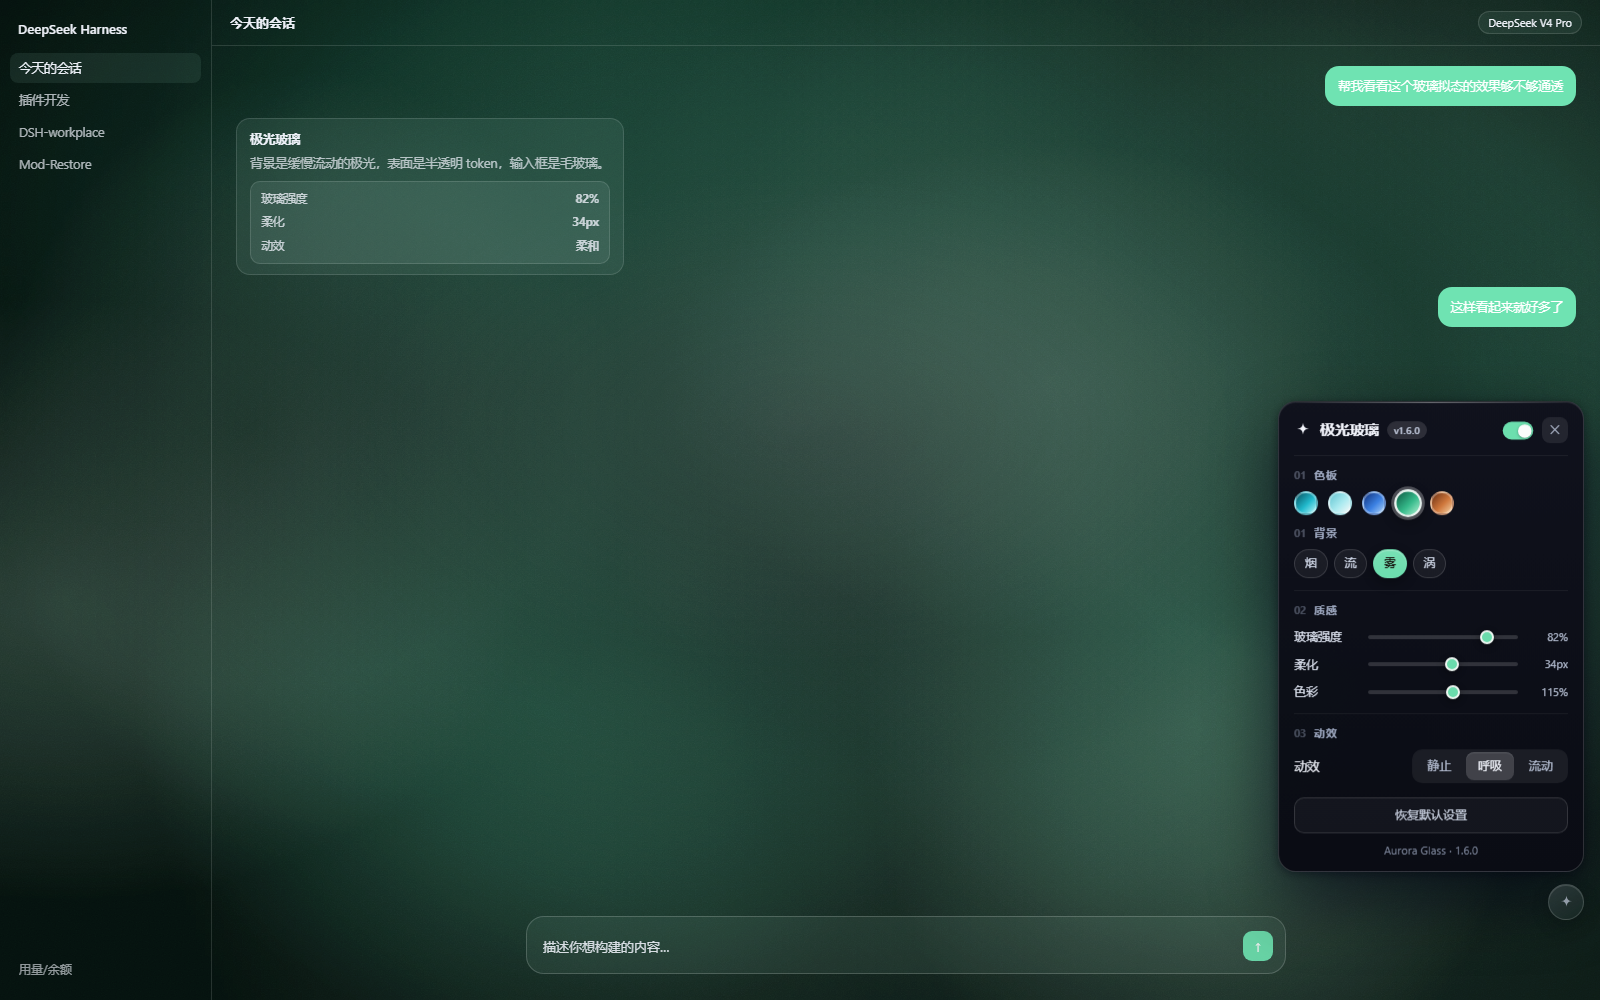
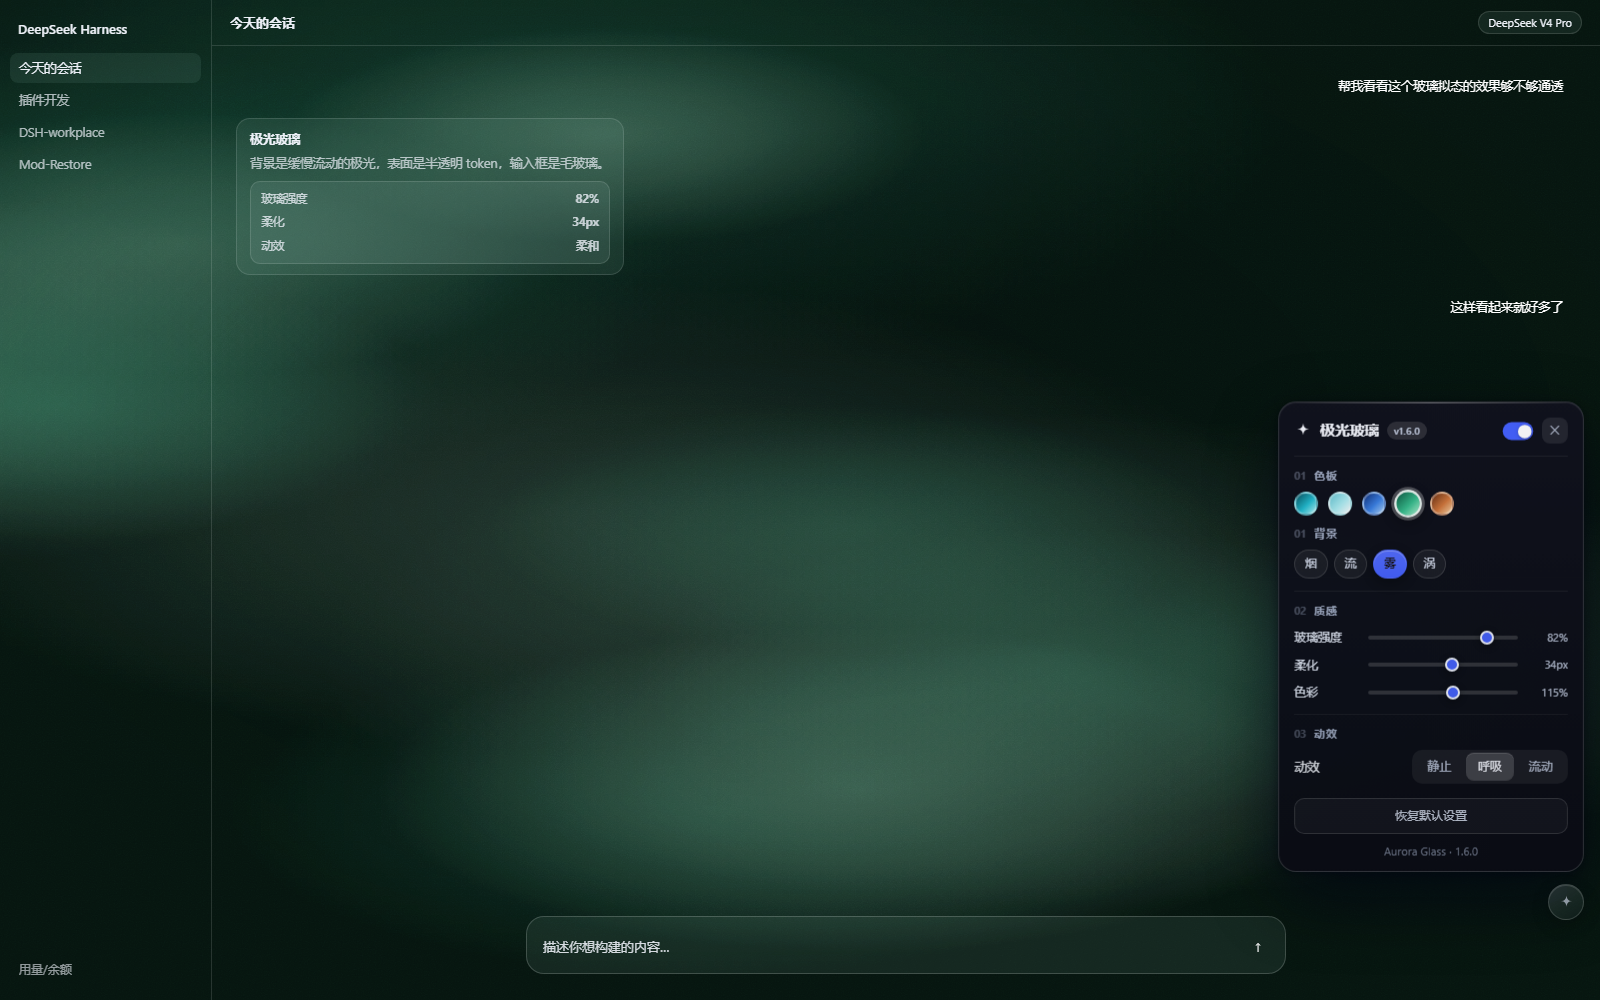
fix: v3.2.0 - coalesce slider paints, lift the scrim, four distinct fluid motions, no hover preview

diff --git a/client.js b/client.js
@@ -382,17 +382,15 @@ body{
 #${BG_ID} .ag-scrim{
   position:absolute; inset:0; display:block; pointer-events:none;
   background:
-    radial-gradient(40% 34% at var(--ag-px,50%) var(--ag-py,42%), rgb(255 255 255 / calc(.05 + .09 * var(--ag-g))), transparent 72%),
-    radial-gradient(64% 58% at 52% 44%, rgb(248 250 255 / calc(.2 + .12 * var(--ag-g))), rgb(248 250 255 / 0) 80%),
-    rgb(248 250 255 / calc(.05 + .05 * var(--ag-g)));
+    radial-gradient(64% 58% at 52% 44%, rgb(248 250 255 / calc(.06 + .06 * var(--ag-g))), rgb(248 250 255 / 0) 82%),
+    rgb(248 250 255 / calc(.02 + .03 * var(--ag-g)));
   transition:opacity .6s ease;
 }
 body:not([data-ds-dark-theme]) #${BG_ID} i{ opacity:calc(.9 + .1 * var(--ag-g)) }
 body[data-ds-dark-theme] #${BG_ID} .ag-scrim{
   background:
-    radial-gradient(40% 34% at var(--ag-px,50%) var(--ag-py,42%), rgb(255 255 255 / calc(.03 + .06 * var(--ag-g))), transparent 72%),
-    radial-gradient(64% 58% at 52% 44%, rgb(4 6 12 / calc(.34 + .12 * var(--ag-g))), rgb(4 6 12 / 0) 82%),
-    rgb(4 6 12 / calc(.2 + .08 * var(--ag-g)));
+    radial-gradient(70% 62% at 50% 44%, rgb(4 6 12 / calc(.12 + .08 * var(--ag-g))), rgb(4 6 12 / 0) 84%),
+    rgb(4 6 12 / calc(.06 + .04 * var(--ag-g)));
 }
 html.ag-typing #${BG_ID} .ag-scrim{ opacity:.55 }
 #${BG_ID} .ag-grain{
@@ -454,7 +452,6 @@ body{
   /* editorial ink: warm near-black instead of the platform's blue-grey */
   --ag-ink-l: ${pal.base[0].map((v) => Math.round(v * 0.12)).join(' ')};
   --ag-ink-d: ${pal.base[1].map((v) => Math.round(v + (255 - v) * 0.92)).join(' ')};
-  --dsw-alias-brand-primary: ${pal.brand.light} !important;
   --dsw-alias-label-primary: rgb(var(--ag-ink-l)) !important;
   --dsw-alias-label-secondary: rgb(var(--ag-ink-l) / .72) !important;
   --dsw-alias-label-tertiary: rgb(var(--ag-ink-l) / .5) !important;
@@ -473,12 +470,10 @@ body{
   --dsw-alias-border-l3: rgb(15 23 42 / .17) !important;
   --dsw-alias-border-l4: rgb(15 23 42 / .21) !important;
   --dsw-specific-sidebar-fill: rgb(var(--ag-base-l) / calc(.02 + .05 * var(--ag-g))) !important;
-  --dsw-alias-brand-primary: ${pal.brand.light} !important;
 }
 
 /* ---- alias tokens, dark -------------------------------------------- */
 body[data-ds-dark-theme]{
-  --dsw-alias-brand-primary: ${pal.brand.dark} !important;
   --dsw-alias-label-primary: rgb(var(--ag-ink-d)) !important;
   --dsw-alias-label-secondary: rgb(var(--ag-ink-d) / .7) !important;
   --dsw-alias-label-tertiary: rgb(var(--ag-ink-d) / .46) !important;
@@ -497,7 +492,6 @@ body[data-ds-dark-theme]{
   --dsw-alias-border-l3: rgb(255 255 255 / calc(.16 + .06 * var(--ag-g))) !important;
   --dsw-alias-border-l4: rgb(255 255 255 / calc(.2 + .07 * var(--ag-g))) !important;
   --dsw-specific-sidebar-fill: rgb(var(--ag-base-d) / calc(.02 + .05 * var(--ag-g))) !important;
-  --dsw-alias-brand-primary: ${pal.brand.dark} !important;
 }
 
 /* ---- dialogs: opaque, so settings never floats on the aurora -------- *
@@ -980,6 +974,7 @@ body:not([data-ds-dark-theme]) .ag-swatch.on{ border-color:rgba(60,48,36,.7); bo
     }
 
     let panelScroll = 0;
+    let sliderQueued = 0;
 
     /* ---------------------------- hover copy ---------------------------- */
 
@@ -1071,8 +1066,6 @@ body:not([data-ds-dark-theme]) .ag-swatch.on{ border-color:rgba(60,48,36,.7); bo
           'data-palette': p.id,
           'data-tip': tip('palette'),
           style: 'background:linear-gradient(135deg,' + solidOf(p.rgb[0]) + ',' + solidOf(p.rgb[1]) + ' 55%,' + solidOf(p.rgb[2]) + ')',
-          onPointerenter: () => previewPalette(p.id),
-          onPointerleave: () => previewPalette(null),
           onClick: () => set({ palette: p.id }),
         }),
       );
@@ -1113,8 +1106,15 @@ body:not([data-ds-dark-theme]) .ag-swatch.on{ border-color:rgba(60,48,36,.7); bo
             state = { ...state, [key]: v };
             const out = refs['val-' + key];
             if (out) out.textContent = fmt(v);
-            // every slider now updates live — the tuning class keeps it cheap
-            paint();
+            // coalesce: a range input can fire dozens of events per frame and
+            // each paint writes a dozen custom properties plus a stylesheet
+            if (!sliderQueued) {
+              sliderQueued = 1;
+              requestAnimationFrame(() => {
+                sliderQueued = 0;
+                paint();
+              });
+            }
           },
           onChange: (e) => {
             state = { ...state, [key]: Number(e.target.value) };
@@ -1535,54 +1535,95 @@ body:not([data-ds-dark-theme]) .ag-swatch.on{ border-color:rgba(60,48,36,.7); bo
     const MIST_CELLS = makeCells(18, 515151);
     const SWIRL_CELLS = makeCells(24, 737373);
 
-    function paintCells(ctx, W, H, dark, cells, t, o) {
+    /* ---- four structurally different fluids -------------------------- *
+     * They used to be the same cell field with a different stretch, which is
+     * why they all looked alike. Each one now has its own motion model.
+     * ------------------------------------------------------------------ */
+
+    function cellPalette(dark) {
       const m = moodOf();
-      const bright = m.rgb[2];
-      const mid = m.rgb[1];
-      const deep = m.rgb[0];
-      const ink = dark ? m.base[1] : m.base[0];
-
-      for (let i = 0; i < cells.length; i += 1) {
-        const c = cells[i];
-        let x = (c.x + Math.sin(t * c.sx + c.ph) * c.ax) * W;
-        let y = (c.y + Math.cos(t * c.sy + c.ph * 1.7) * c.ay) * H;
-
-        if (o.spin) {
-          const dx = x - W * 0.5;
-          const dy = y - H * 0.5;
-          const a = o.spin * t * 0.06;
-          x = W * 0.5 + dx * Math.cos(a) - dy * Math.sin(a) * 0.7;
-          y = H * 0.5 + dx * Math.sin(a) * 0.7 + dy * Math.cos(a);
-        }
-        if (o.stretchY) y = H * 0.5 + (y - H * 0.5) * o.stretchY;
-
-        const r = c.r * W * (0.88 + 0.12 * Math.sin(t * 0.7 + c.ph)) * o.scale;
-        const col = c.darkCell ? ink : (c.tone === 2 ? bright : mid);
-        blob(ctx, x, y, r, col, c.a * (dark ? 1 : 0.95), c.sq);
-      }
-
-      // a single hot core keeps the whole thing from looking flat
-      blob(ctx, W * 0.58, H * 0.36, W * 0.22, dark ? bright : deep, dark ? 0.2 : 0.16, 1);
+      return {
+        m,
+        bright: m.rgb[2],
+        mid: m.rgb[1],
+        deep: m.rgb[0],
+        ink: dark ? m.base[1] : m.base[0],
+        dark,
+      };
     }
 
+    // smoke: billows rising, squashed vertically, drifting sideways
     function drawSmoke(ctx, W, H, dark) {
       ground(ctx, W, H, dark);
-      paintCells(ctx, W, H, dark, SMOKE_CELLS, silkT * 0.9, { scale: 1, stretchY: 0, spin: 0 });
+      const p = cellPalette(dark);
+      const t = silkT * 0.8;
+      const list = SMOKE_CELLS;
+      for (let i = 0; i < list.length; i += 1) {
+        const c = list[i];
+        const x = (c.x + Math.sin(t * c.sx + c.ph) * 0.1) * W;
+        const y = (c.y + Math.cos(t * c.sy + c.ph * 1.6) * 0.08) * H;
+        const r = c.r * W * (0.9 + 0.1 * Math.sin(t * 0.6 + c.ph));
+        blob(ctx, x, y, r, c.darkCell ? p.ink : (c.tone === 2 ? p.bright : p.mid), c.a, 1.5);
+      }
+      blob(ctx, W * 0.56, H * 0.34, W * 0.2, p.bright, dark ? 0.24 : 0.14, 1);
     }
 
+    // flow: long vertical streaks travelling upward, wrapping at the top
     function drawFlow(ctx, W, H, dark) {
       ground(ctx, W, H, dark);
-      paintCells(ctx, W, H, dark, FLOW_CELLS, silkT * 1.15, { scale: 1.05, stretchY: 1.9, spin: 0 });
+      const p = cellPalette(dark);
+      const t = silkT * 1.5;
+      const list = FLOW_CELLS;
+      for (let i = 0; i < list.length; i += 1) {
+        const c = list[i];
+        // continuous upward travel: this is what separates it from smoke
+        const y = (((c.y - t * (0.06 + (i % 5) * 0.012)) % 1.3) + 1.3) % 1.3 - 0.15;
+        const x = (c.x + Math.sin(t * 0.4 + c.ph) * 0.04) * W;
+        const r = c.r * W * 0.85;
+        const col = c.darkCell ? p.ink : (c.tone === 2 ? p.bright : p.mid);
+        blob(ctx, x, y * H, r * 0.55, col, c.a * 0.9, 3.4);
+      }
     }
 
+    // mist: wide flat strata sliding sideways at different speeds
     function drawMist(ctx, W, H, dark) {
       ground(ctx, W, H, dark);
-      paintCells(ctx, W, H, dark, MIST_CELLS, silkT * 0.55, { scale: 1.15, stretchY: 0.55, spin: 0 });
+      const p = cellPalette(dark);
+      const t = silkT * 0.45;
+      const list = MIST_CELLS;
+      for (let i = 0; i < list.length; i += 1) {
+        const c = list[i];
+        const lane = Math.floor(i / 3) / Math.max(1, Math.floor(list.length / 3));
+        const x = (((c.x + t * (0.02 + lane * 0.03)) % 1.4) + 1.4) % 1.4 - 0.2;
+        const y = (0.12 + lane * 0.82 + Math.sin(t * 0.3 + c.ph) * 0.015) * H;
+        const r = c.r * W * 1.1;
+        const col = c.darkCell ? p.ink : (c.tone === 2 ? p.bright : p.mid);
+        blob(ctx, x * W, y, r, col, c.a * 0.8, 0.34);
+      }
     }
 
+    // swirl: three spiral arms turning around a dark eye
     function drawSwirl(ctx, W, H, dark) {
       ground(ctx, W, H, dark);
-      paintCells(ctx, W, H, dark, SWIRL_CELLS, silkT * 0.75, { scale: 1, stretchY: 0, spin: 1 });
+      const p = cellPalette(dark);
+      const t = silkT * 0.55;
+      const cx = W * 0.5;
+      const cy = H * 0.5;
+      const arms = 3;
+      const per = 7;
+      for (let a = 0; a < arms; a += 1) {
+        for (let k = 0; k < per; k += 1) {
+          const phase = (a / arms) * Math.PI * 2 + k * 0.42 + t * 0.9;
+          const rad = W * (0.06 + k * 0.075);
+          const x = cx + Math.cos(phase) * rad;
+          const y = cy + Math.sin(phase) * rad * 0.62;
+          const r = W * (0.2 - k * 0.014);
+          const col = k % 3 === 0 ? p.ink : k > 4 ? p.bright : p.mid;
+          blob(ctx, x, y, r, col, (dark ? 0.3 : 0.24) * (1 - k * 0.06), 0.9);
+        }
+      }
+      // the eye
+      blob(ctx, cx, cy, W * 0.13, p.ink, dark ? 0.85 : 0.5, 0.9);
     }
 
     function now0() {

diff --git a/README.md b/README.md
@@ -3,7 +3,7 @@
 > **`dsh-aurora-glass`** — 为 DeepSeek Harness（DSH）打造的全局玻璃拟态 + 极光渐变主题插件。
 > A global glassmorphism + aurora theme plugin for DeepSeek Harness.
 
-![Version](https://img.shields.io/badge/version-3.1.0-8fb0ff) ![License](https://img.shields.io/badge/license-MIT-059669) ![Platform](https://img.shields.io/badge/platform-DeepSeek%20Harness-4763ff) ![Dependencies](https://img.shields.io/badge/dependencies-0-0b7bf1)
+![Version](https://img.shields.io/badge/version-3.2.0-8fb0ff) ![License](https://img.shields.io/badge/license-MIT-059669) ![Platform](https://img.shields.io/badge/platform-DeepSeek%20Harness-4763ff) ![Dependencies](https://img.shields.io/badge/dependencies-0-0b7bf1)
 
 <p align="center">
   <img src="docs/preview-light.png" alt="烟 · 浅青（浅色）" width="780">
@@ -80,17 +80,18 @@
 
 正文颜色也跟着色板走（覆盖 `--dsw-alias-label-*`），强调色跟随每一套的品牌色。
 
-### 背景：四种流体，真的会动
+### 背景：四种流体，各有各的运动模型
 
-每一团都是一个软渐变，沿各自的 Lissajous 路径漂移——但**三分之一是暗的**。
-暗团在亮团之间挖出通道，那种干涉才读得出"流体"，而不是一团模糊。
+之前四种只是同一套细胞换个拉伸比例，所以看着一样。现在每种是**不同的运动方式**：
 
-| 背景 | 参数 |
+| 背景 | 运动 |
 | --- | --- |
-| **烟** | 26 团，横向漂移，最接近参考的质感 |
-| **流** | 20 团，纵向拉伸 1.9 倍，像上升的水流 |
-| **雾** | 18 团，横向压扁 0.55 倍，最安静 |
-| **涡** | 24 团绕中心缓慢旋转 |
+| **烟** | 团块上升 + 横向漂移，纵向压扁 1.5 倍，像烟 |
+| **流** | 长条竖直向上**连续流动**，到顶回卷，像上升的水流 |
+| **雾** | 分三层的横向雾带，各自以不同速度滑过，最安静 |
+| **涡** | 三条螺旋臂绕一个**暗眼**旋转，中心是空的 |
+
+每种里都有约三分之一的**暗团**，暗团在亮团之间挖出通道——这才是"流体"而不是"一团模糊"。
 
 ### 交互：只在控件上
 

diff --git a/CHANGELOG.md b/CHANGELOG.md
@@ -3,6 +3,22 @@
 本文件记录 dsh-aurora-glass 的重要变更，采用简易维护格式（Keep a Changelog 风格）。
 All notable changes to dsh-aurora-glass, in a simple maintenance format (Keep a Changelog style).
 
+## [3.2.0] - 2026-10-26
+
+### Fixed
+
+- **滑杆卡顿**：range 输入一帧能触发几十次事件，每次都重写十几个自定义属性 + 重建样式表。
+  现在合并到**每帧最多一次**（rAF 合并）。这是滑杆跟手性最直接的改善。
+- **背景像蒙了一层雾**：scrim 的暗角太重（深色下 0.34 + 0.12），等于给整个背景盖了张灰膜。
+  降到 0.12 + 0.08，并把浅色的也从 0.2 降到 0.06。现在背景是透的。
+- **烟 / 流 / 雾 / 涡 看起来一样**：之前只是同一套细胞换拉伸比例。现在各有运动模型：
+  烟=上升+漂移、流=竖直连续上升回卷、雾=三层横向滑过、涡=三条螺旋臂绕暗眼旋转。
+
+### Removed
+
+- **色板悬停预览**：每次 enter 都重建整张样式表，是卡顿的来源之一。现在必须点一下才切换。
+- **品牌色跟随色板**：控件、开关、选中态回到平台默认色，不再随色板变。面板更简洁。
+
 ## [3.1.0] - 2026-10-26
 
 3.0.0 被判"根本没有流体的感觉、颜色很脏"。
